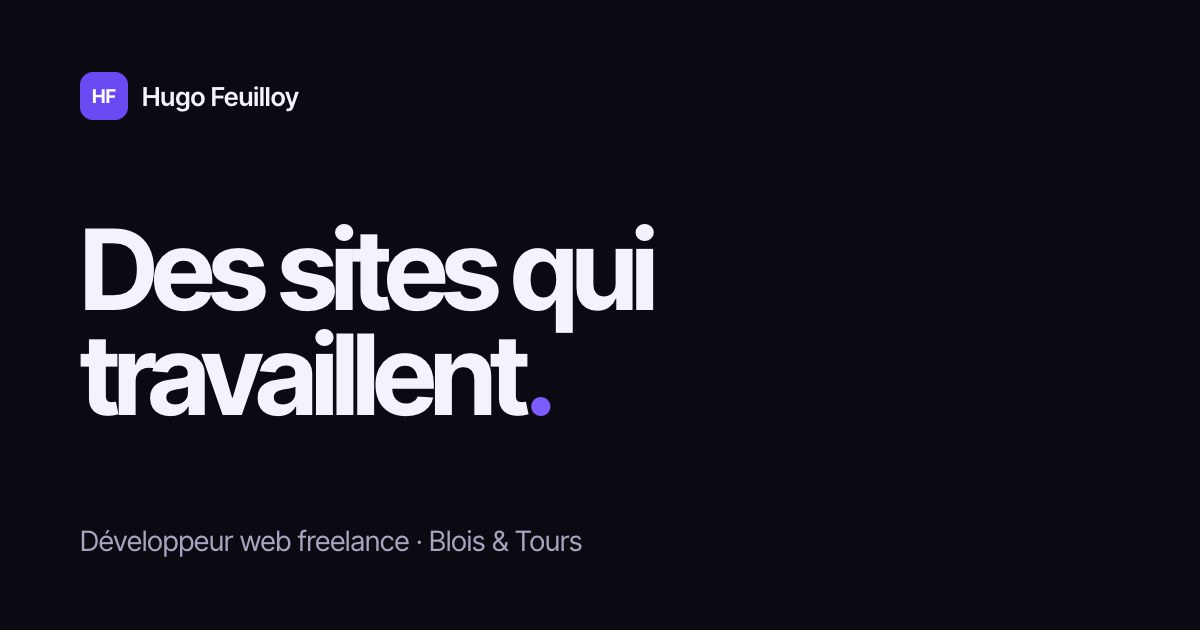
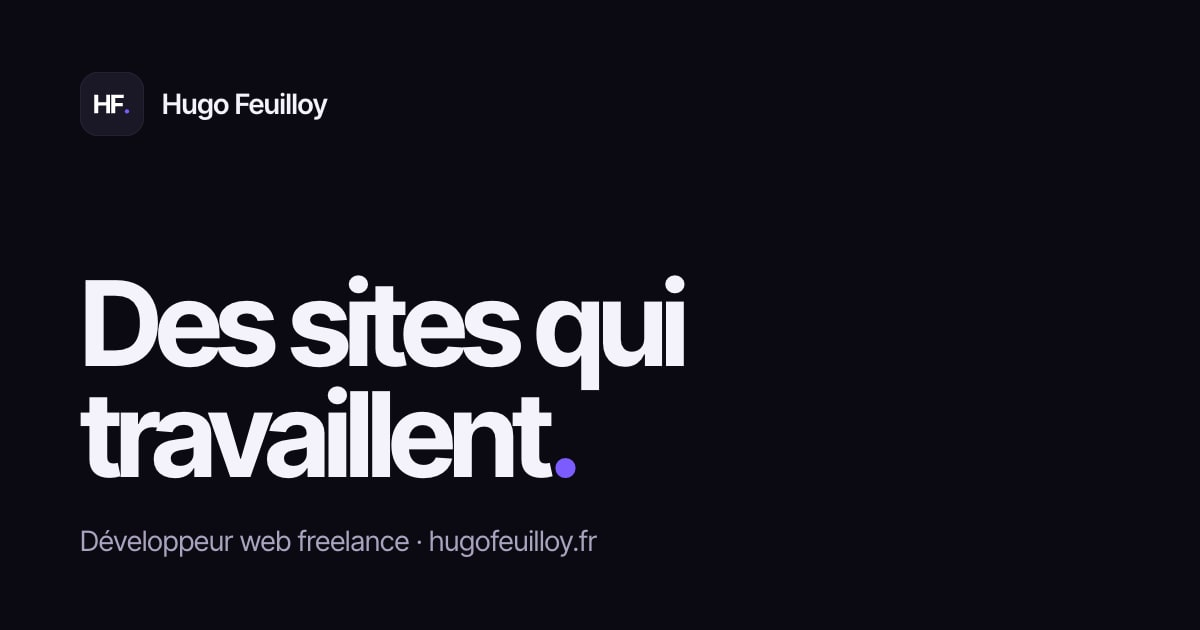
Add profile picture, Gmail signature, and web manifest
- Added a new profile picture (profile-picture-1080.png) for branding.
- Created a Gmail signature HTML file (signature-gmail.html) for professional correspondence.
- Introduced a web manifest (site.webmanifest) to enhance PWA capabilities with app icons and theme settings.

Changed region(s): [[0.0617, 0.3619, 0.5858, 0.7841], [0.0617, 0.0905, 0.2775, 0.2111], [0.3392, 0.8444, 0.4933, 0.8746]]

diff --git a/public/brand/signature-gmail.html b/public/brand/signature-gmail.html
@@ -1,0 +1,32 @@
+<!doctype html>
+<html lang="fr">
+<head>
+<meta charset="utf-8">
+<title>Signature Gmail — Hugo Feuilloy</title>
+</head>
+<body style="margin:0;padding:40px 24px;background:#FFFFFF;font-family:-apple-system,BlinkMacSystemFont,'Segoe UI',Roboto,Helvetica,Arial,sans-serif;">
+<p style="margin:0 0 24px;font-size:13px;color:#8A869A;">Sélectionne tout ce qui se trouve sous la ligne (de « Hugo Feuilloy » jusqu'au lien), copie-le, puis colle-le dans Gmail → Paramètres → Voir tous les paramètres → Signature.</p>
+<hr style="border:0;border-top:1px dashed #D9D5E6;margin:0 0 28px;">
+
+<table cellpadding="0" cellspacing="0" style="border-collapse:collapse;font-family:-apple-system,BlinkMacSystemFont,'Segoe UI',Roboto,Helvetica,Arial,sans-serif;">
+  <tr>
+    <td valign="top" style="padding:2px 14px 0 0;">
+      <table cellpadding="0" cellspacing="0" style="border-collapse:collapse;">
+        <tr>
+          <td width="40" height="40" align="center" valign="middle" style="width:40px;height:40px;background:#111113;border-radius:11px;font-size:14px;font-weight:700;color:#FFFFFF;letter-spacing:-0.4px;">HF<span style="color:#8B6DFF;">.</span></td>
+        </tr>
+      </table>
+    </td>
+    <td valign="top" style="border-left:1px solid #E7E5EF;padding:0 0 0 14px;">
+      <div style="font-size:15px;line-height:20px;font-weight:700;color:#111113;">Hugo Feuilloy</div>
+      <div style="font-size:13px;line-height:19px;color:#5E5A6E;">Développeur web freelance · Blois &amp; partout en France</div>
+      <div style="padding-top:6px;font-size:13px;line-height:19px;color:#111113;">
+        <a href="tel:+33771643245" style="color:#111113;text-decoration:none;">07 71 64 32 45</a>
+        <span style="color:#C9C5D6;">&nbsp;·&nbsp;</span>
+        <a href="https://hugofeuilloy.fr" style="color:#4B2FD6;text-decoration:none;font-weight:600;">hugofeuilloy.fr</a>
+      </div>
+    </td>
+  </tr>
+</table>
+</body>
+</html>

diff --git a/src/components/Navbar.tsx b/src/components/Navbar.tsx
@@ -3,7 +3,6 @@ import { AnimatePresence, motion, type Variants } from "motion/react";
 import { mobileMenuCta, nav, site } from "../data/site";
 import { setMenuOpen } from "../hooks/menuState";
 import { scrollToHash } from "../hooks/useLenis";
-import { LogoMark } from "./LogoMark";
 import { pressable, primaryButton } from "./primitives";
 
 const barSpring = { type: "spring", bounce: 0, duration: 0.26 } as const;
@@ -91,8 +90,8 @@ export function Navbar({ home }: { home: boolean }) {
       <div className="relative mx-auto max-w-[1200px]">
         <header className={`relative z-10 rounded-[18px] py-2 pr-2 pl-4 max-md:rounded-[16px] ${glass}`}>
           <nav aria-label="Navigation principale" className="flex items-center justify-between gap-4">
-            <a href={home ? "#top" : "/"} className={`flex min-h-11 items-center gap-2.5 rounded-[12px] ${pressable}`}>
-              <LogoMark className="size-8 shrink-0 max-md:size-[30px]" />
+            <a href={home ? "#top" : "/"} aria-label={`${site.name}, accueil`} className={`flex min-h-11 items-center gap-2.5 rounded-[12px] ${pressable}`}>
+              <img src="/brand/hf-mark-on-dark.svg" alt="" width="32" height="32" className="size-8 shrink-0 max-md:size-[30px]" />
               <span className="text-[15px] font-semibold">{site.name}</span>
             </a>
 

diff --git a/index.html b/index.html
@@ -17,8 +17,10 @@
     <meta property="og:image:width" content="1200" />
     <meta property="og:image:height" content="630" />
     <meta name="twitter:card" content="summary_large_image" />
-    <link rel="icon" href="/favicon.svg" type="image/svg+xml" />
-    <link rel="apple-touch-icon" href="/apple-touch-icon.png" />
+    <link rel="icon" href="/brand/favicon.svg" type="image/svg+xml" />
+    <link rel="icon" href="/brand/favicon.ico" sizes="any" />
+    <link rel="apple-touch-icon" href="/brand/apple-touch-icon.png" />
+    <link rel="manifest" href="/site.webmanifest" />
     <link rel="preload" href="/fonts/inter-tight-latin.woff2" as="font" type="font/woff2" crossorigin />
     <style>.no-motion #root [style]{opacity:1!important;transform:none!important;filter:none!important}</style>
     <script nomodule src="/no-motion.js"></script>

diff --git a/src/components/Footer.tsx b/src/components/Footer.tsx
@@ -5,7 +5,8 @@ export function Footer({ ctaBar = false }: { ctaBar?: boolean }) {
   return (
     <footer className="border-t border-white/[0.07]">
       <div className={`mx-auto flex max-w-[1200px] flex-col gap-3 px-5 py-8 text-[13px] text-muted sm:flex-row sm:items-center sm:justify-between md:px-8 max-md:flex-col max-md:items-center max-md:gap-1 max-md:text-center ${bottom}`}>
-        <p>
+        <p className="flex items-center gap-2.5">
+          <img src="/brand/hf-mark-on-dark.svg" alt="" width="24" height="24" className="size-6 shrink-0" />
           © {new Date().getFullYear()} {site.legalName} · {site.area}
         </p>
         <p className="flex items-center gap-2">

diff --git a/api/src/mail-templates.php b/api/src/mail-templates.php
@@ -42,7 +42,6 @@ function mailLayout(string $title, string $preheader, string $content, string $f
     $ink = MAIL_INK;
     $line = MAIL_LINE;
     $soft = MAIL_SOFT;
-    $violet = MAIL_VIOLET;
 
     return <<<HTML
 <!doctype html>
@@ -64,7 +63,7 @@ function mailLayout(string $title, string $preheader, string $content, string $f
           <td style="padding:0 4px 20px;">
             <table role="presentation" cellpadding="0" cellspacing="0">
               <tr>
-                <td width="34" height="34" align="center" valign="middle" style="width:34px;height:34px;background:{$violet};border-radius:10px;font-family:{$font};font-size:13px;font-weight:700;color:#FFFFFF;letter-spacing:-0.3px;">HF</td>
+                <td width="34" height="34" align="center" valign="middle" style="width:34px;height:34px;background:#111113;border-radius:10px;font-family:{$font};font-size:13px;font-weight:700;color:#FFFFFF;letter-spacing:-0.3px;">HF<span style="color:#8B6DFF;">.</span></td>
                 <td style="padding-left:12px;font-family:{$font};font-size:15px;font-weight:600;color:{$ink};">Hugo Feuilloy</td>
               </tr>
             </table>
